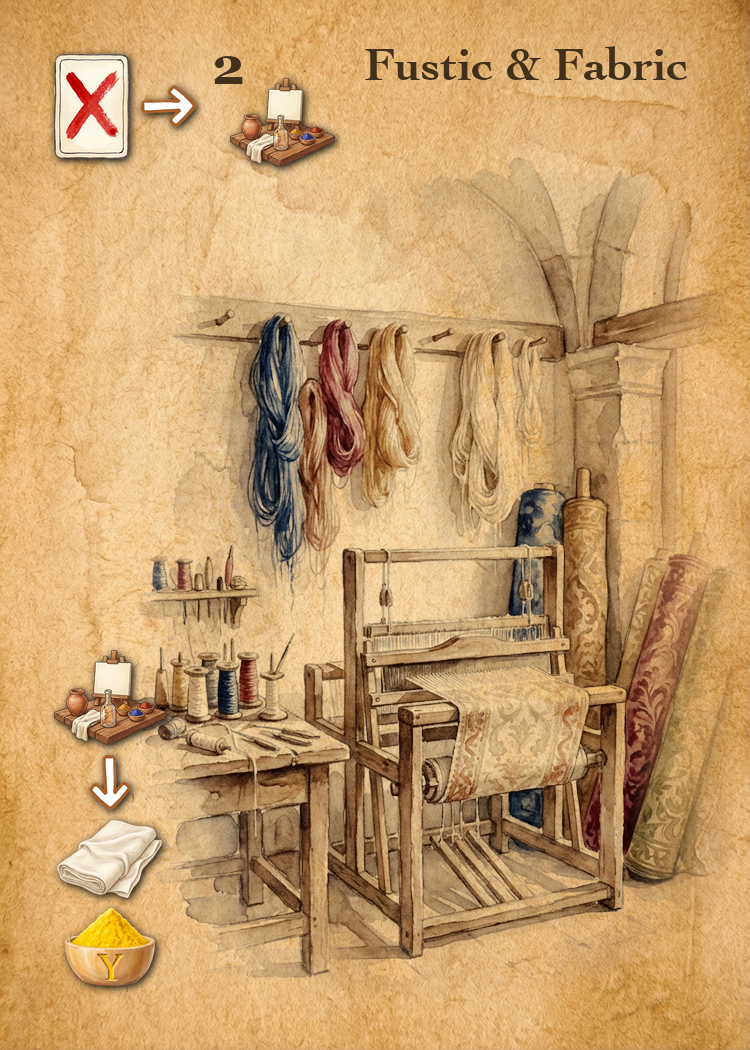
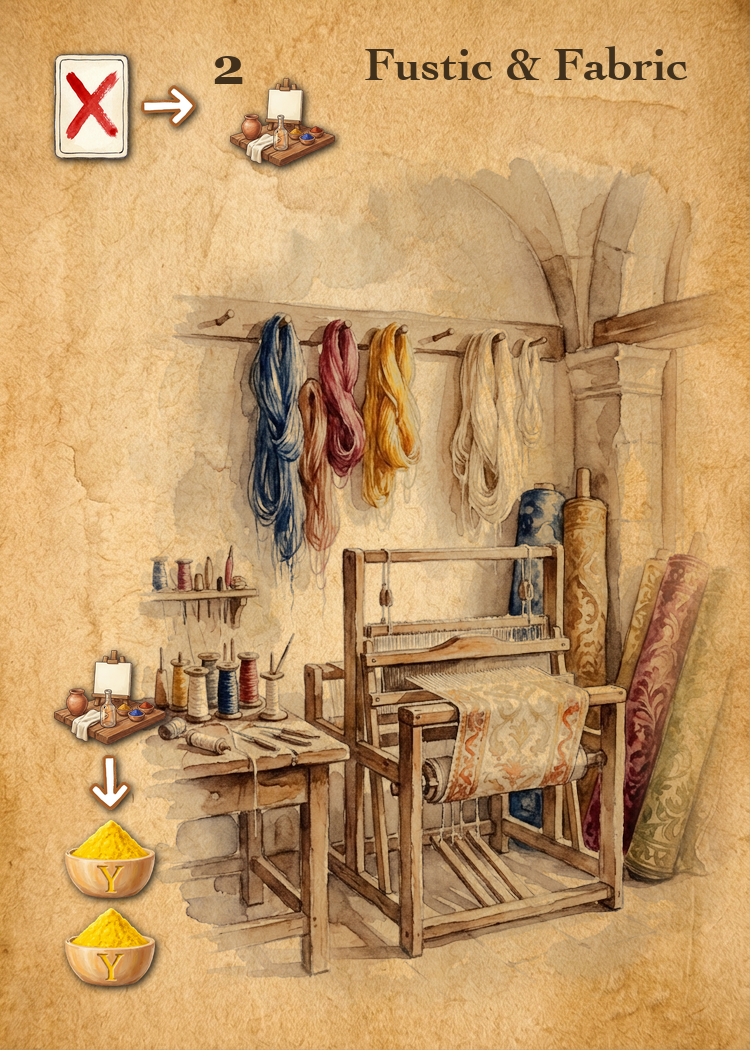
Make textile + color pip cards output two pigments
Alizarin & Fabric, Fustic & Fabric, and Pastel & Fabric now produce two
pigments of their color instead of a textile plus one pigment.

- Migrate material card schema from `color_pip: str|None` to
  `color_pips: list[str]` (all 18 material entries)
- Clear `material_types` on the three affected textile-fabric cards and
  set `color_pips` to `[color, color]`
- Iterate `color_pips` in compose_material.py (both get_icon_bounds and
  compose)
- Recompose the three affected cards

diff --git a/generate_cards/card_data.py b/generate_cards/card_data.py
@@ -302,95 +302,97 @@ MATERIAL_CARDS = [
     {
         "name": "ceramics", "title": "Ceramics",
         "material_types": ["ceramic"], "ability": "workshop3",
-        "color_pip": None, "bg_type": "ceramic",
+        "color_pips": [], "bg_type": "ceramic",
     },
     {
         "name": "paintings", "title": "Paintings",
         "material_types": ["painting"], "ability": "workshop4",
-        "color_pip": None, "bg_type": "painting",
+        "color_pips": [], "bg_type": "painting",
     },
     {
         "name": "textiles", "title": "Textiles",
         "material_types": ["textile"], "ability": "workshop2",
-        "color_pip": None, "bg_type": "textile",
+        "color_pips": [], "bg_type": "textile",
     },
     # Double materials
     {
         "name": "fine-ceramics", "title": "Fine Ceramics",
         "material_types": ["ceramic", "ceramic"], "ability": "sell",
-        "color_pip": None, "bg_type": "ceramic",
+        "color_pips": [], "bg_type": "ceramic",
     },
     {
         "name": "fine-paintings", "title": "Fine Paintings",
         "material_types": ["painting", "painting"], "ability": "sell",
-        "color_pip": None, "bg_type": "painting",
+        "color_pips": [], "bg_type": "painting",
     },
     {
         "name": "fine-textiles", "title": "Fine Textiles",
         "material_types": ["textile", "textile"], "ability": "sell",
-        "color_pip": None, "bg_type": "textile",
+        "color_pips": [], "bg_type": "textile",
     },
     # Material + color pip
     {
         "name": "terra-cotta", "title": "Terra Cotta",
         "material_types": ["ceramic"], "ability": "workshop2",
-        "color_pip": "red", "bg_type": "ceramic",
+        "color_pips": ["red"], "bg_type": "ceramic",
     },
     {
         "name": "ochre-ware", "title": "Ochre Ware",
         "material_types": ["ceramic"], "ability": "workshop2",
-        "color_pip": "yellow", "bg_type": "ceramic",
+        "color_pips": ["yellow"], "bg_type": "ceramic",
     },
     {
         "name": "cobalt-ware", "title": "Cobalt Ware",
         "material_types": ["ceramic"], "ability": "workshop2",
-        "color_pip": "blue", "bg_type": "ceramic",
+        "color_pips": ["blue"], "bg_type": "ceramic",
     },
     {
         "name": "cinnabar-canvas", "title": "Cinnabar & Canvas",
         "material_types": ["painting"], "ability": "workshop2",
-        "color_pip": "red", "bg_type": "painting",
+        "color_pips": ["red"], "bg_type": "painting",
     },
     {
         "name": "orpiment-canvas", "title": "Orpiment & Canvas",
         "material_types": ["painting"], "ability": "workshop2",
-        "color_pip": "yellow", "bg_type": "painting",
+        "color_pips": ["yellow"], "bg_type": "painting",
     },
     {
         "name": "ultramarine-canvas", "title": "Ultramarine & Canvas",
         "material_types": ["painting"], "ability": "workshop2",
-        "color_pip": "blue", "bg_type": "painting",
+        "color_pips": ["blue"], "bg_type": "painting",
     },
+    # Textile + color pip cards output two pigments of that color instead of
+    # a textile plus a pigment.
     {
         "name": "alizarin-fabric", "title": "Alizarin & Fabric",
-        "material_types": ["textile"], "ability": "workshop2",
-        "color_pip": "red", "bg_type": "textile",
+        "material_types": [], "ability": "workshop2",
+        "color_pips": ["red", "red"], "bg_type": "textile",
     },
     {
         "name": "fustic-fabric", "title": "Fustic & Fabric",
-        "material_types": ["textile"], "ability": "workshop2",
-        "color_pip": "yellow", "bg_type": "textile",
+        "material_types": [], "ability": "workshop2",
+        "color_pips": ["yellow", "yellow"], "bg_type": "textile",
     },
     {
         "name": "pastel-fabric", "title": "Pastel & Fabric",
-        "material_types": ["textile"], "ability": "workshop2",
-        "color_pip": "blue", "bg_type": "textile",
+        "material_types": [], "ability": "workshop2",
+        "color_pips": ["blue", "blue"], "bg_type": "textile",
     },
     # Dual materials
     {
         "name": "clay-canvas", "title": "Clay & Canvas",
         "material_types": ["ceramic", "painting"], "ability": "sell",
-        "color_pip": None, "bg_type": "ceramic",
+        "color_pips": [], "bg_type": "ceramic",
     },
     {
         "name": "clay-fabric", "title": "Clay & Fabric",
         "material_types": ["ceramic", "textile"], "ability": "sell",
-        "color_pip": None, "bg_type": "ceramic",
+        "color_pips": [], "bg_type": "ceramic",
     },
     {
         "name": "canvas-fabric", "title": "Canvas & Fabric",
         "material_types": ["painting", "textile"], "ability": "sell",
-        "color_pip": None, "bg_type": "painting",
+        "color_pips": [], "bg_type": "painting",
     },
 ]
 

diff --git a/generate_cards/compose_material.py b/generate_cards/compose_material.py
@@ -58,11 +58,9 @@ def get_icon_bounds(card):
     ic_arr_d = ic_arr_d.rotate(-90, expand=True, resample=Image.LANCZOS)
 
     mat_icons = [load_icon(f"{ICON_DIR}/{MAT_ICON[mt]}", H_PIG) for mt in card["material_types"]]
-    pip_icon = None
-    if card.get("color_pip"):
-        pip_icon = load_icon(f"{PIG_DIR}/{PIP_PIGMENT[card['color_pip']]}", H_PIG)
+    pip_icons = [load_icon(f"{PIG_DIR}/{PIP_PIGMENT[p]}", H_PIG) for p in card.get("color_pips", [])]
 
-    all_output_icons = mat_icons + ([pip_icon] if pip_icon else [])
+    all_output_icons = mat_icons + pip_icons
     bot_cw = max(ic_wrk.width, ic_arr_d.width, max(ic.width for ic in all_output_icons))
     bot_ch = ic_wrk.height + GAP_V + ic_arr_d.height + GAP_V
     for ic in all_output_icons:
@@ -78,7 +76,7 @@ def compose(card):
     """Compose a material card from background + icons + title.
 
     Args:
-        card: Dict with name, title, material_types, ability, color_pip, bg_type.
+        card: Dict with name, title, material_types, ability, color_pips, bg_type.
 
     Returns:
         PIL Image (RGBA) of the composed card, or None if background missing.
@@ -135,12 +133,13 @@ def compose(card):
         load_icon(f"{ICON_DIR}/{MAT_ICON[mt]}", H_PIG)
         for mt in card["material_types"]
     ]
-    pip_icon = None
-    if card.get("color_pip"):
-        pip_icon = load_icon(f"{PIG_DIR}/{PIP_PIGMENT[card['color_pip']]}", H_PIG)
+    pip_icons = [
+        load_icon(f"{PIG_DIR}/{PIP_PIGMENT[p]}", H_PIG)
+        for p in card.get("color_pips", [])
+    ]
 
-    # Bottom column: [workshop] [down arrow] [mat1] [mat2] ... [pip]
-    all_output_icons = mat_icons + ([pip_icon] if pip_icon else [])
+    # Bottom column: [workshop] [down arrow] [mat1] [mat2] ... [pip1] [pip2]
+    all_output_icons = mat_icons + pip_icons
     bot_cw = max(ic_wrk.width, ic_arr_d.width, max(ic.width for ic in all_output_icons))
     bot_ch = ic_wrk.height + GAP_V + ic_arr_d.height + GAP_V
     for ic in all_output_icons: